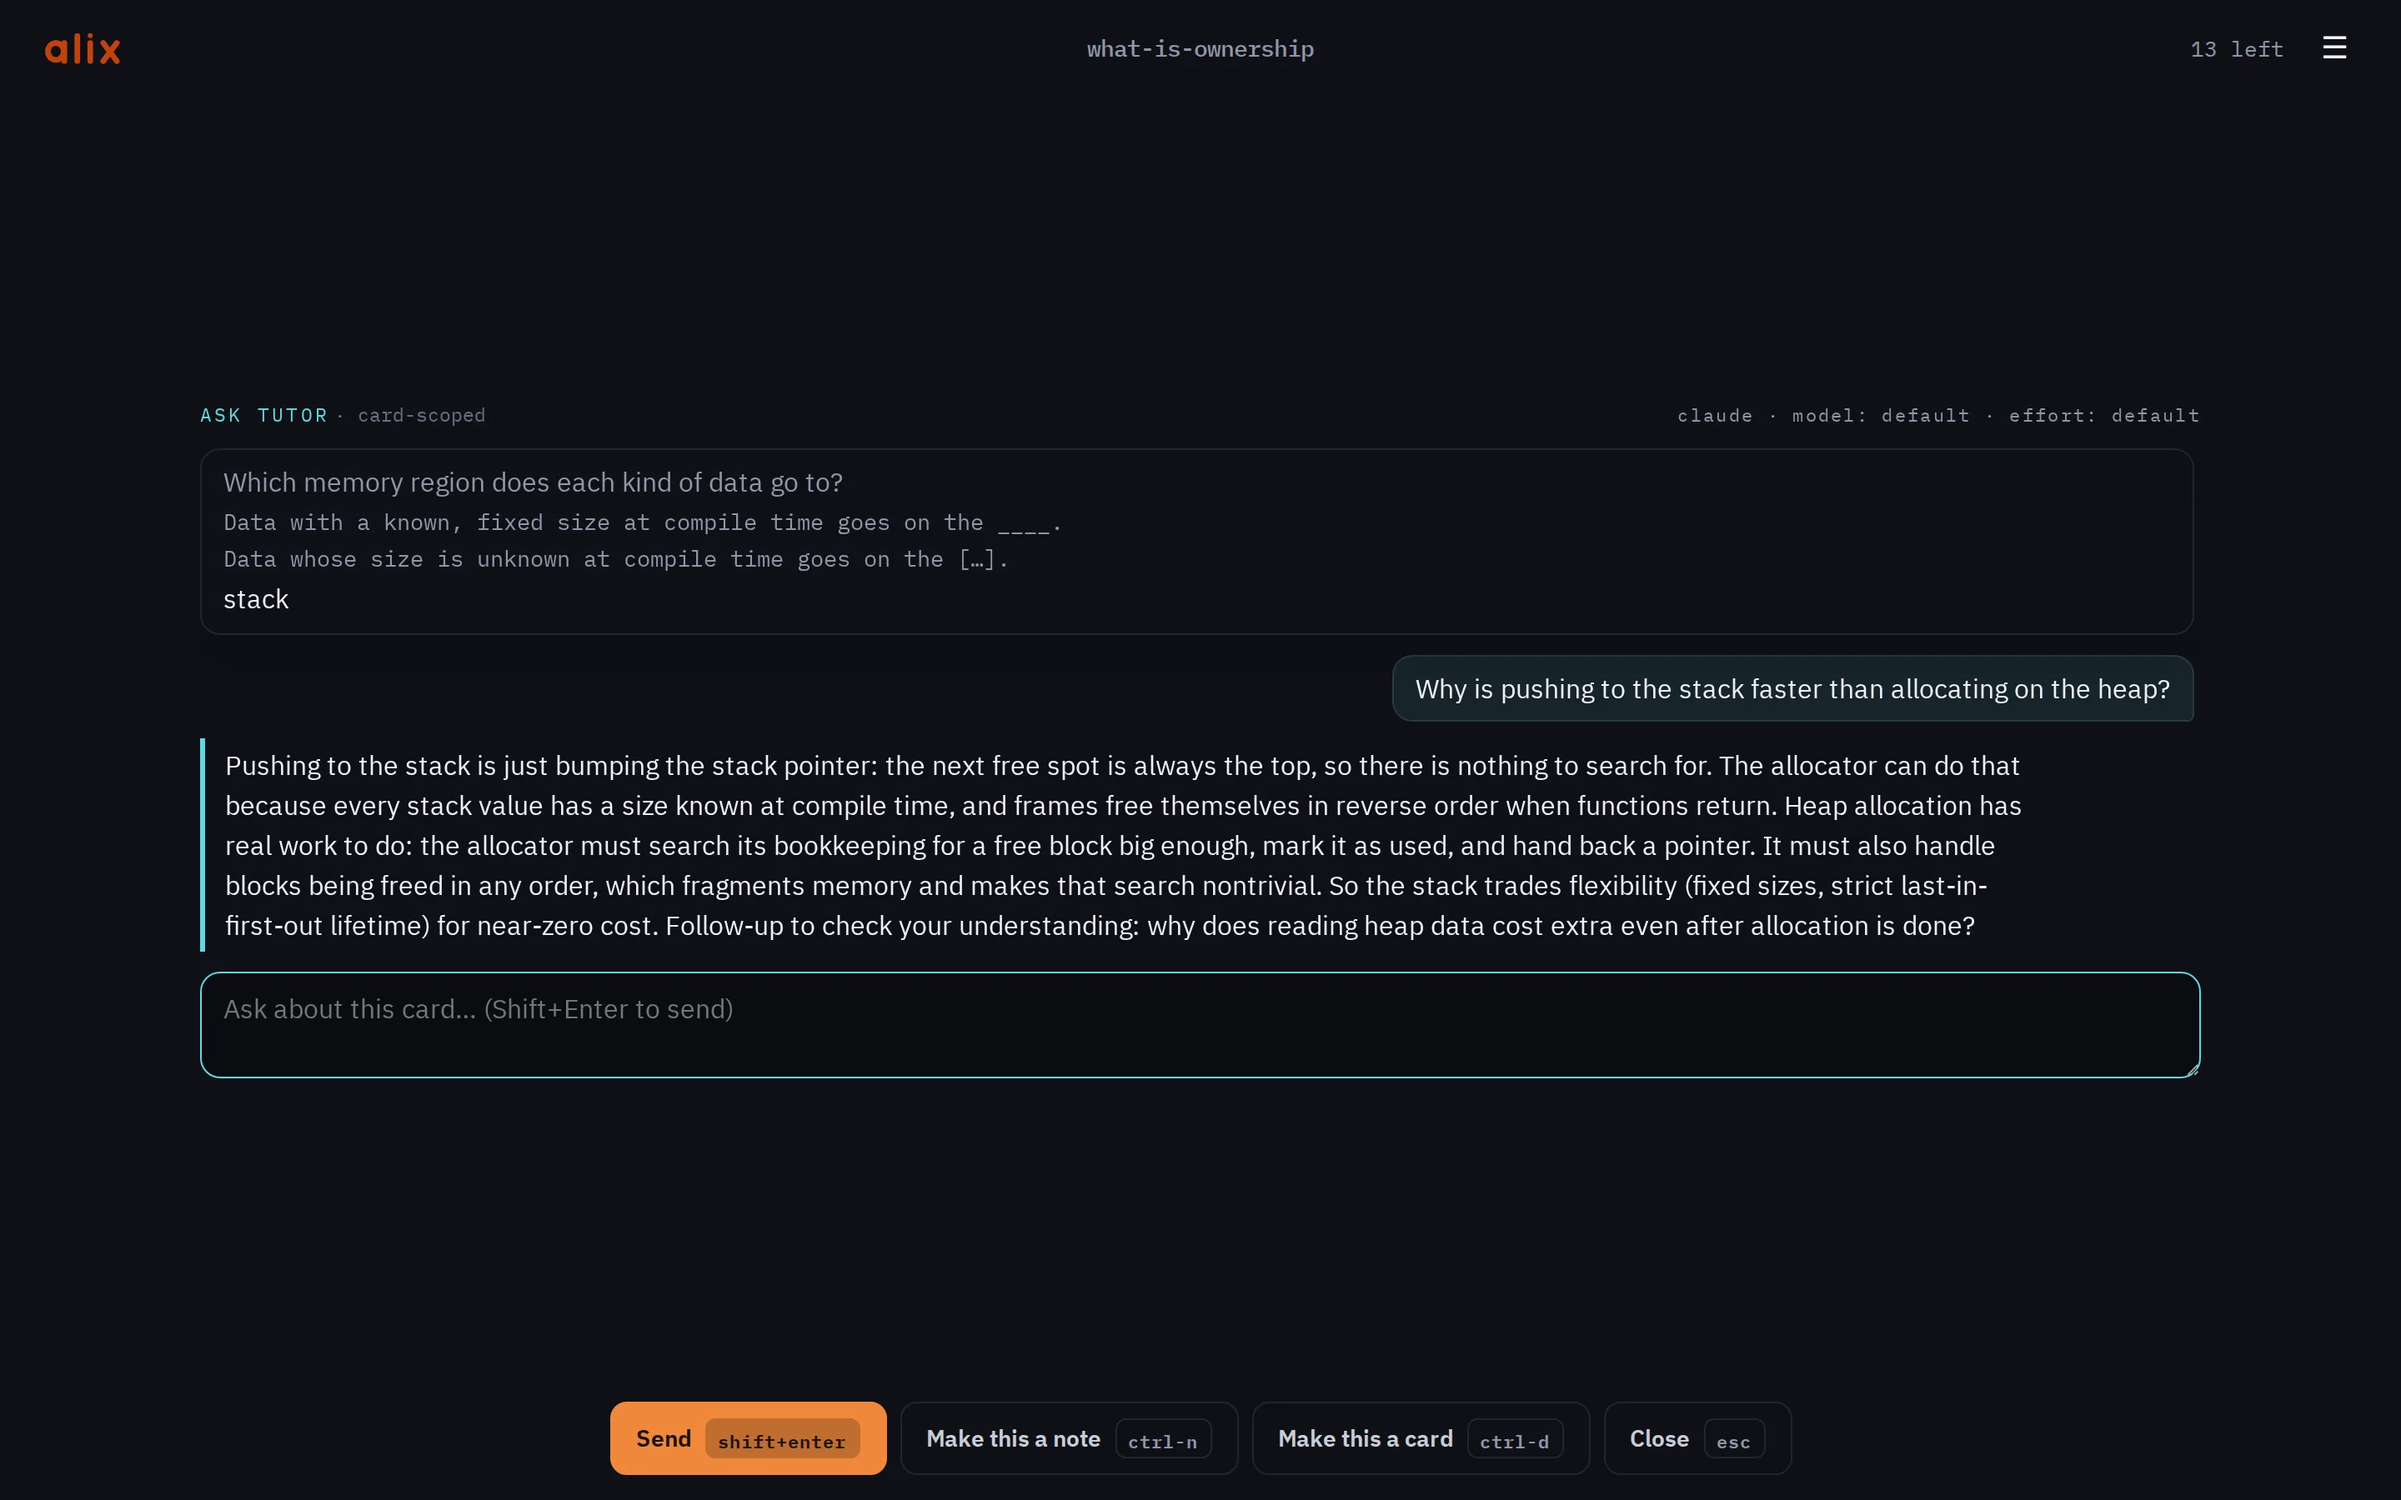
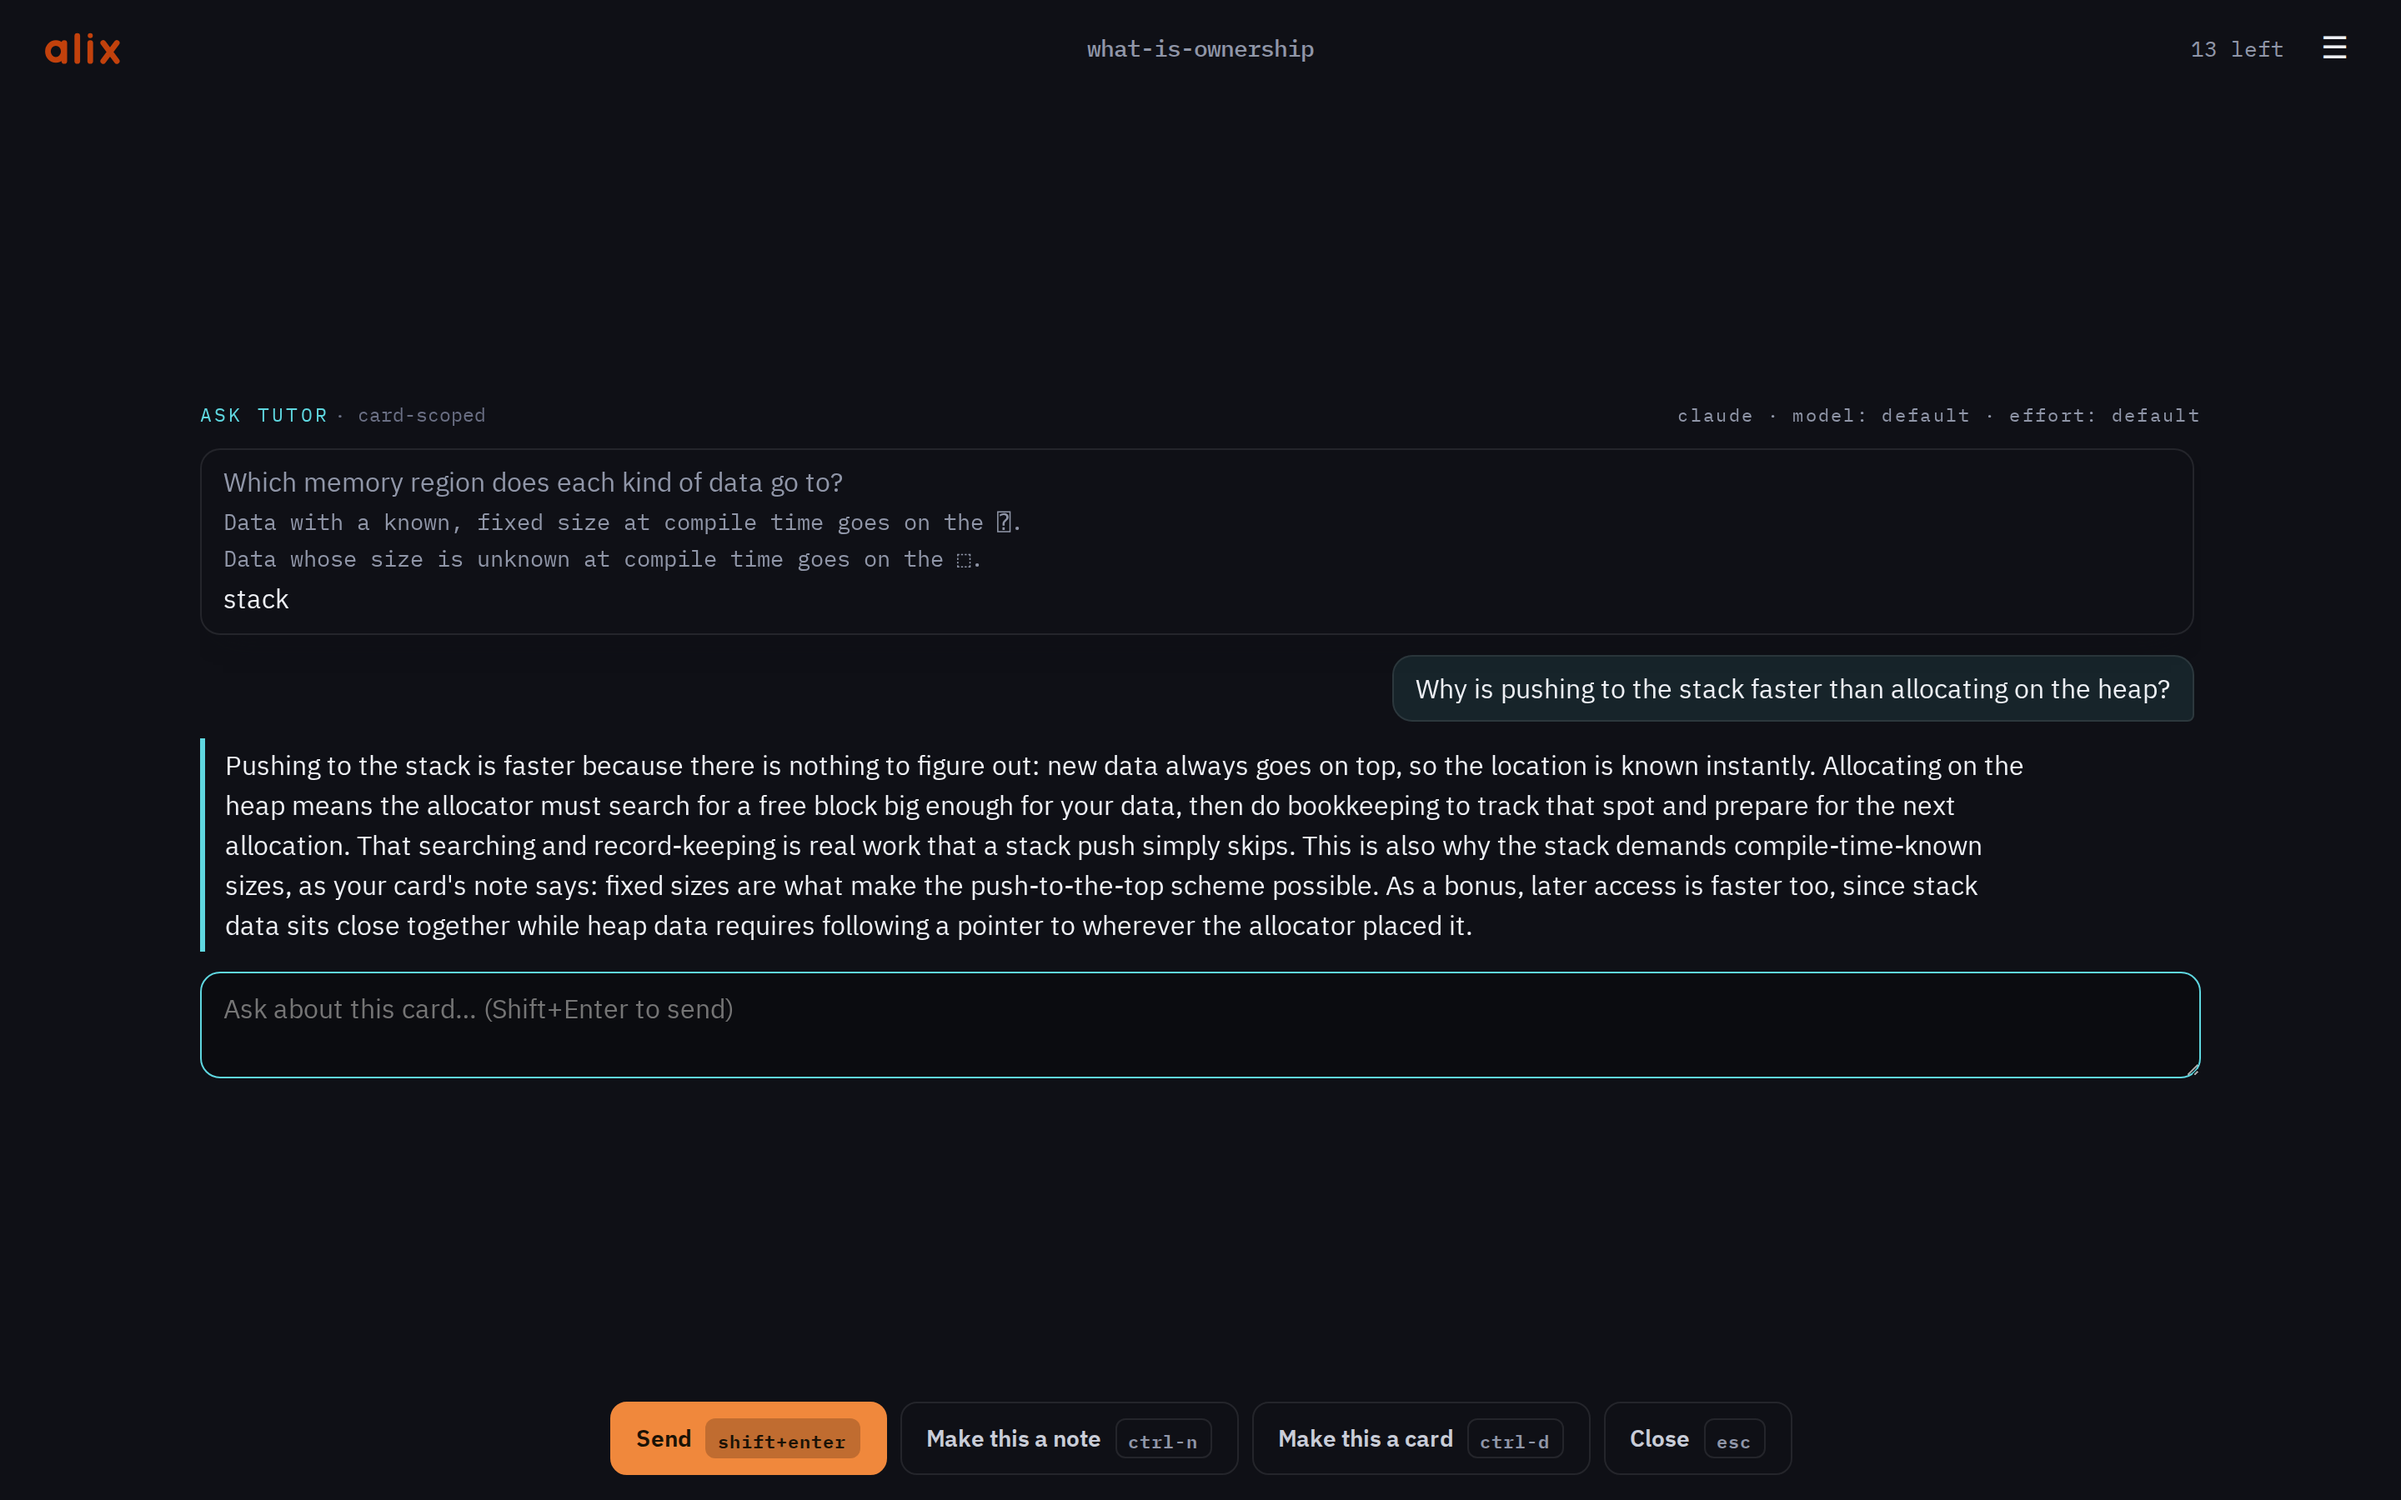
docs: close the third docs-audit round's four findings
All four verified against the code before fixing:

- The tutorial's generate note (both byte-identical copies) claimed the
  web app drafts from "an article or your notes"; /api/generate rejects
  any non-http(s) source (src/serve/mod.rs), files are CLI-only. The
  note now says an article's URL.
- site/img/slide-tutor.webp still showed the retired ____ and [...]
  cloze masks. Replaced with the pipeline-fresh shot-2-tutor.webp,
  which is the same staged scene (same deck, card, and question) at the
  same 2880x1800 framing under the current mask glyphs. The slide
  assets being unmanaged by the capture pipeline is now a named
  roadmap item.
- The book's directives table gave `input` only its `draw` value;
  `type` is the default and the only way to override the math-span
  draw default, so the row now names both, matching the table's other
  enumerated rows.
- Two Unreleased CHANGELOG lines still said "acquire cooldown" and
  "on every acquire"; the same section renames that vocabulary to
  "introduction", so the entries now use the shipped names.

Changed region(s): [[0.0938, 0.4978, 0.8438, 0.6222]]

diff --git a/docs/book/src/07-directives.md b/docs/book/src/07-directives.md
@@ -24,7 +24,7 @@ full.
 | `id` | card | The HTML-comment card ID (`card-<token>`) anchors review history. It is minted by `alix deck init` or a deck-creation workflow and maintained by alix, never hand-authored. After a card table it is the table's container ID; each row's card composes it with the row stamp (`r:`) in the row's first cell. [→ ch 3](03-the-deck-format.md) |
 | `reveal` | deck · card | [How the answer is uncovered](04-review-modes.md): flip (default) or line. Cloze is triggered by a `blank:` directive, never by a `reveal:` value. |
 | `review` | deck | The order cards are served at review: `scheduled` (default) or `sequential`. [→ ch 5](05-scheduling.md) |
-| `input` | deck · card | `draw`: answer on a canvas instead of typing. [→ ch 4](04-review-modes.md) |
+| `input` | deck · card | `type` (default) or `draw`: answer on a canvas instead of typing. [→ ch 4](04-review-modes.md) |
 | `direction` | deck · card | [Review direction](06-cloze-direction-images.md): forward, reverse, both. |
 | `sampling` | deck · card | `on` (default) or `off`: whether a [card table](03-the-deck-format.md)'s rows may draw Recognize options from their own column. A table's value overrides the deck's in either direction. |
 | `strictness` | workspace | [Exam](12-the-ai-exam.md) grading rigor for the members, in `alix.toml`'s `[defaults]` only: a learner setting, so a deck declaring it gets an unknown-key lint. |

diff --git a/CHANGELOG.md b/CHANGELOG.md
@@ -1669,9 +1669,9 @@ adheres to [Semantic Versioning](https://semver.org/spec/v2.0.0.html).
 
 - A new card whose answer was revealed before the "Seen" acknowledgment no
   longer returns as a new card for the rest of the sitting. It came back
-  after every acquire cooldown offering only "Seen" again, so it could
+  after every introduction cooldown offering only "Seen" again, so it could
   never reach a graded review. Cards whose Recognize options need no AI
-  (table rows, authored option lists) hit this on every acquire, because
+  (table rows, authored option lists) hit this on every introduction, because
   picking an option is what reveals the answer.
 
 - A filesystem error after an atomic rename no longer strands progress or

diff --git a/assets/decks/tutorial.md b/assets/decks/tutorial.md
@@ -45,7 +45,7 @@ the depth you choose when starting a session
 ## Where do new decks come from?
 write them yourself, or let the AI draft them from a source
 > [!NOTE]
-> In the web app: point alix at an article or your notes and it
+> In the web app: point alix at an article's URL and it
 > drafts the cards, which you edit like any deck.
 
 ## You are stuck on a card. Where do you get help without leaving the review?

diff --git a/mobile/alix/assets/decks/tutorial.md b/mobile/alix/assets/decks/tutorial.md
@@ -45,7 +45,7 @@ the depth you choose when starting a session
 ## Where do new decks come from?
 write them yourself, or let the AI draft them from a source
 > [!NOTE]
-> In the web app: point alix at an article or your notes and it
+> In the web app: point alix at an article's URL and it
 > drafts the cards, which you edit like any deck.
 
 ## You are stuck on a card. Where do you get help without leaving the review?
